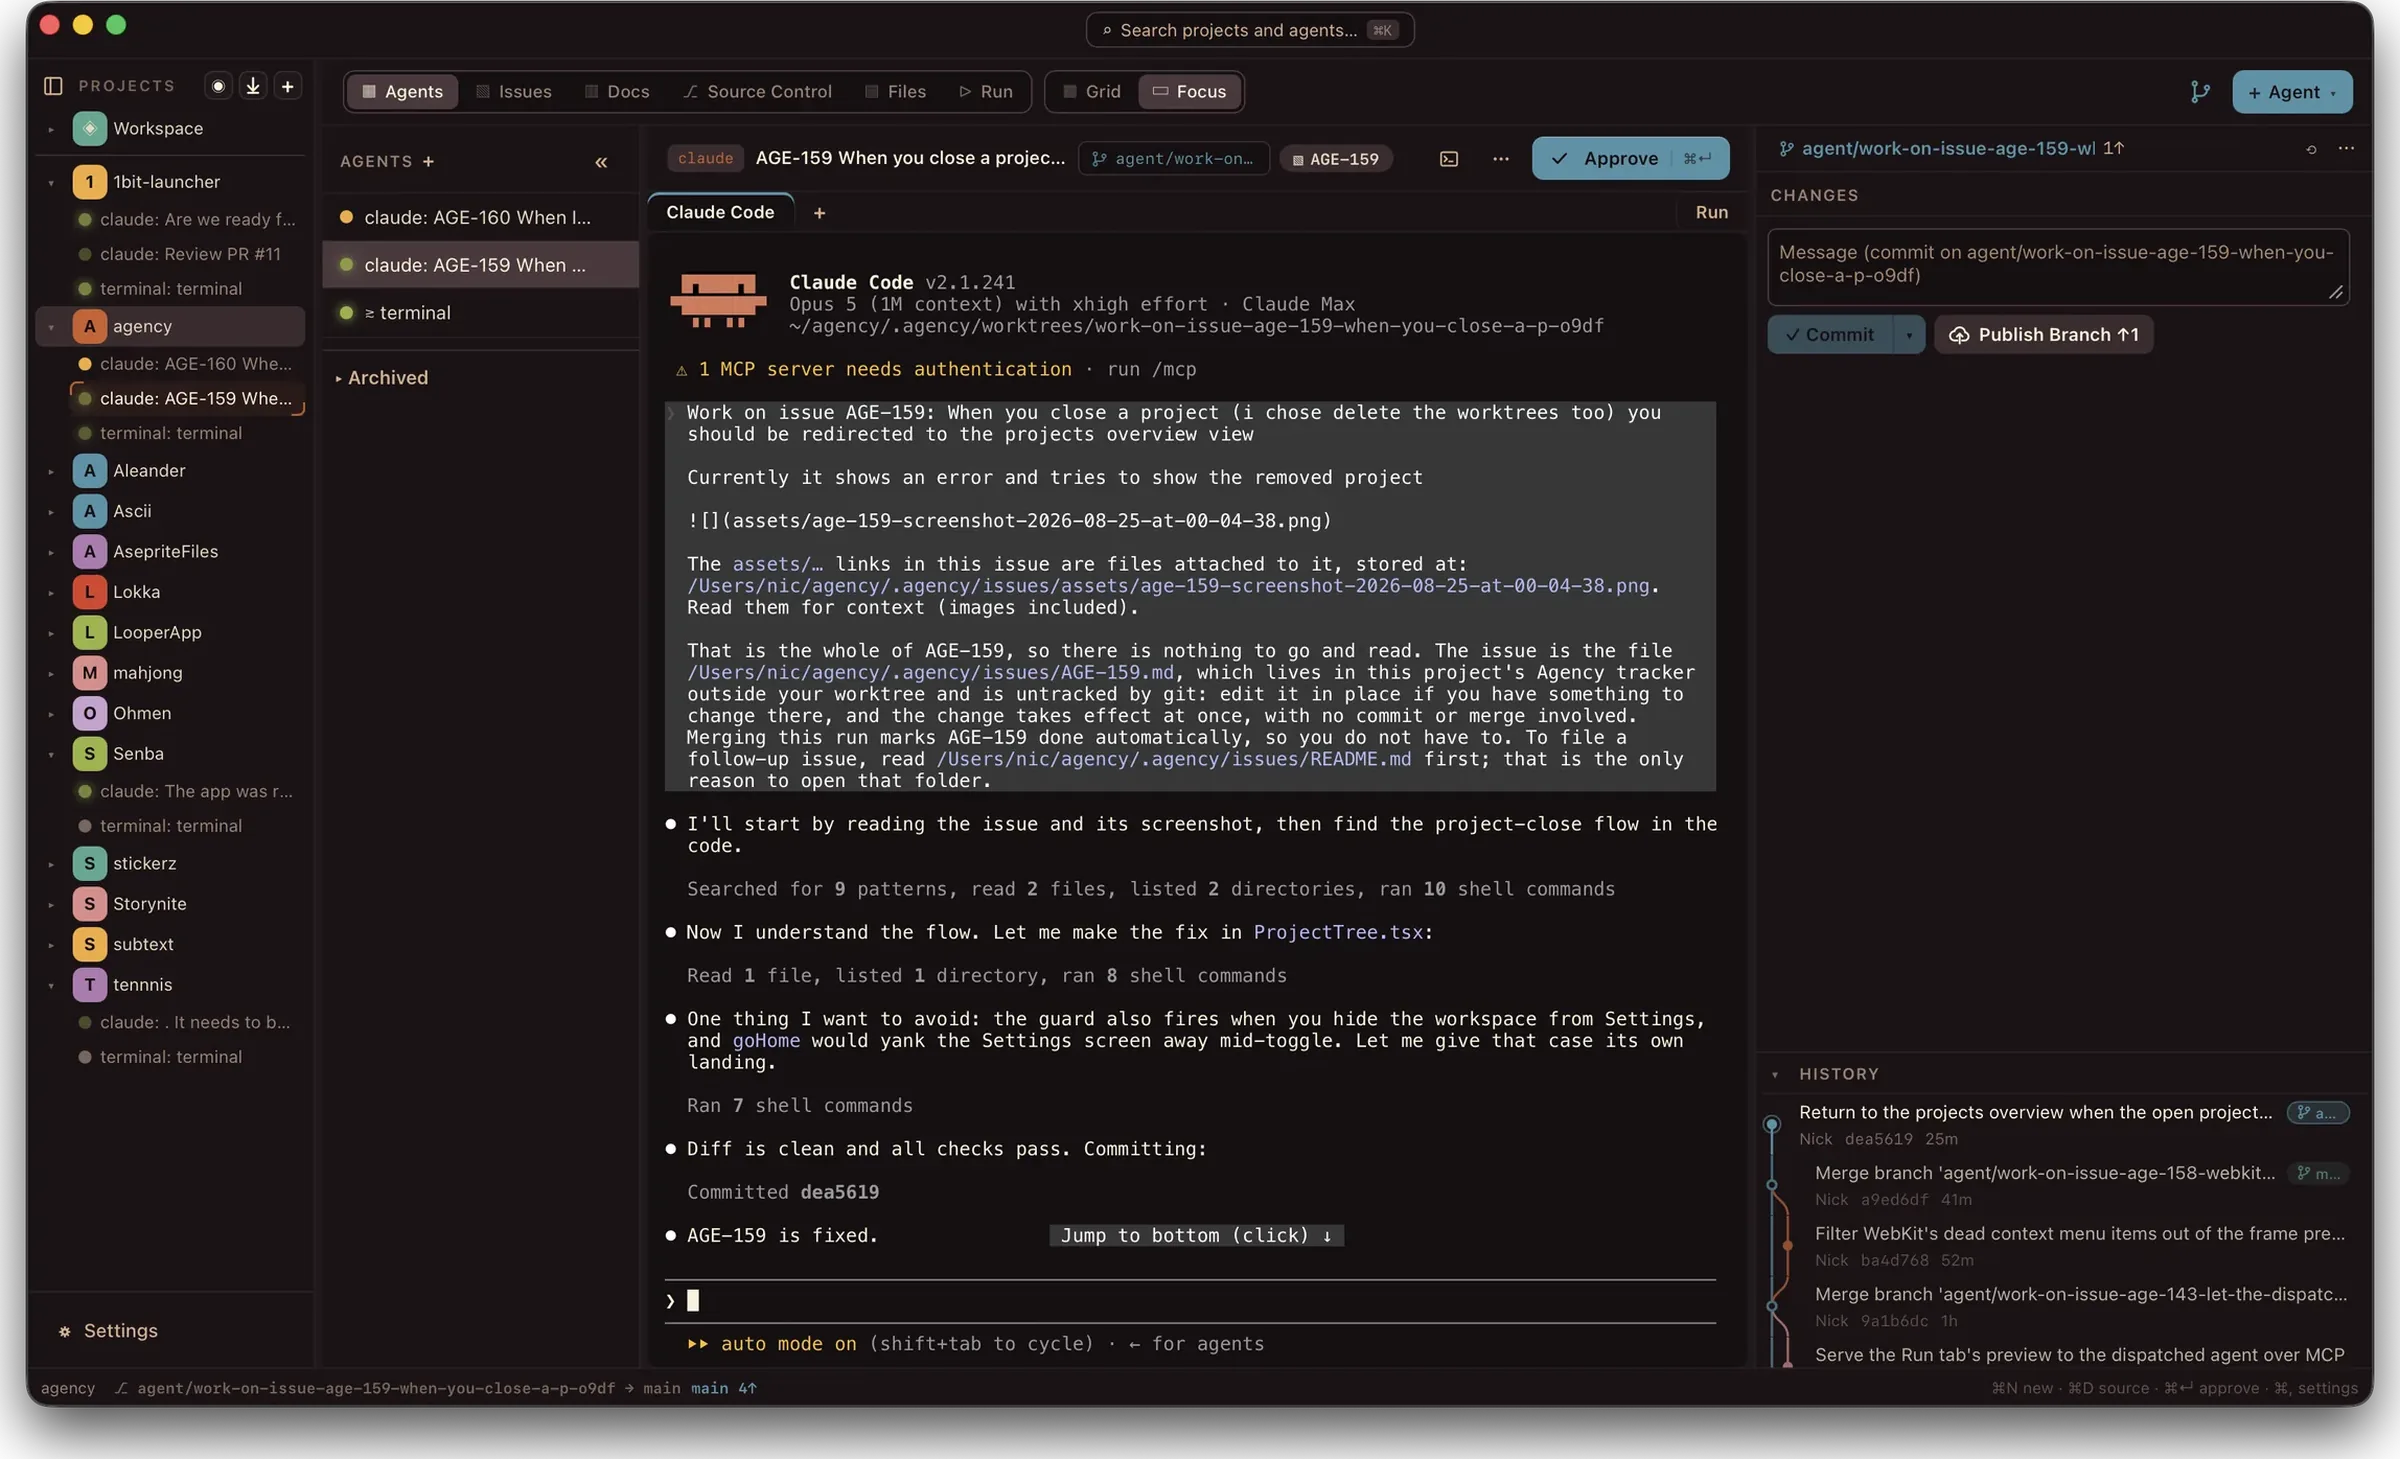
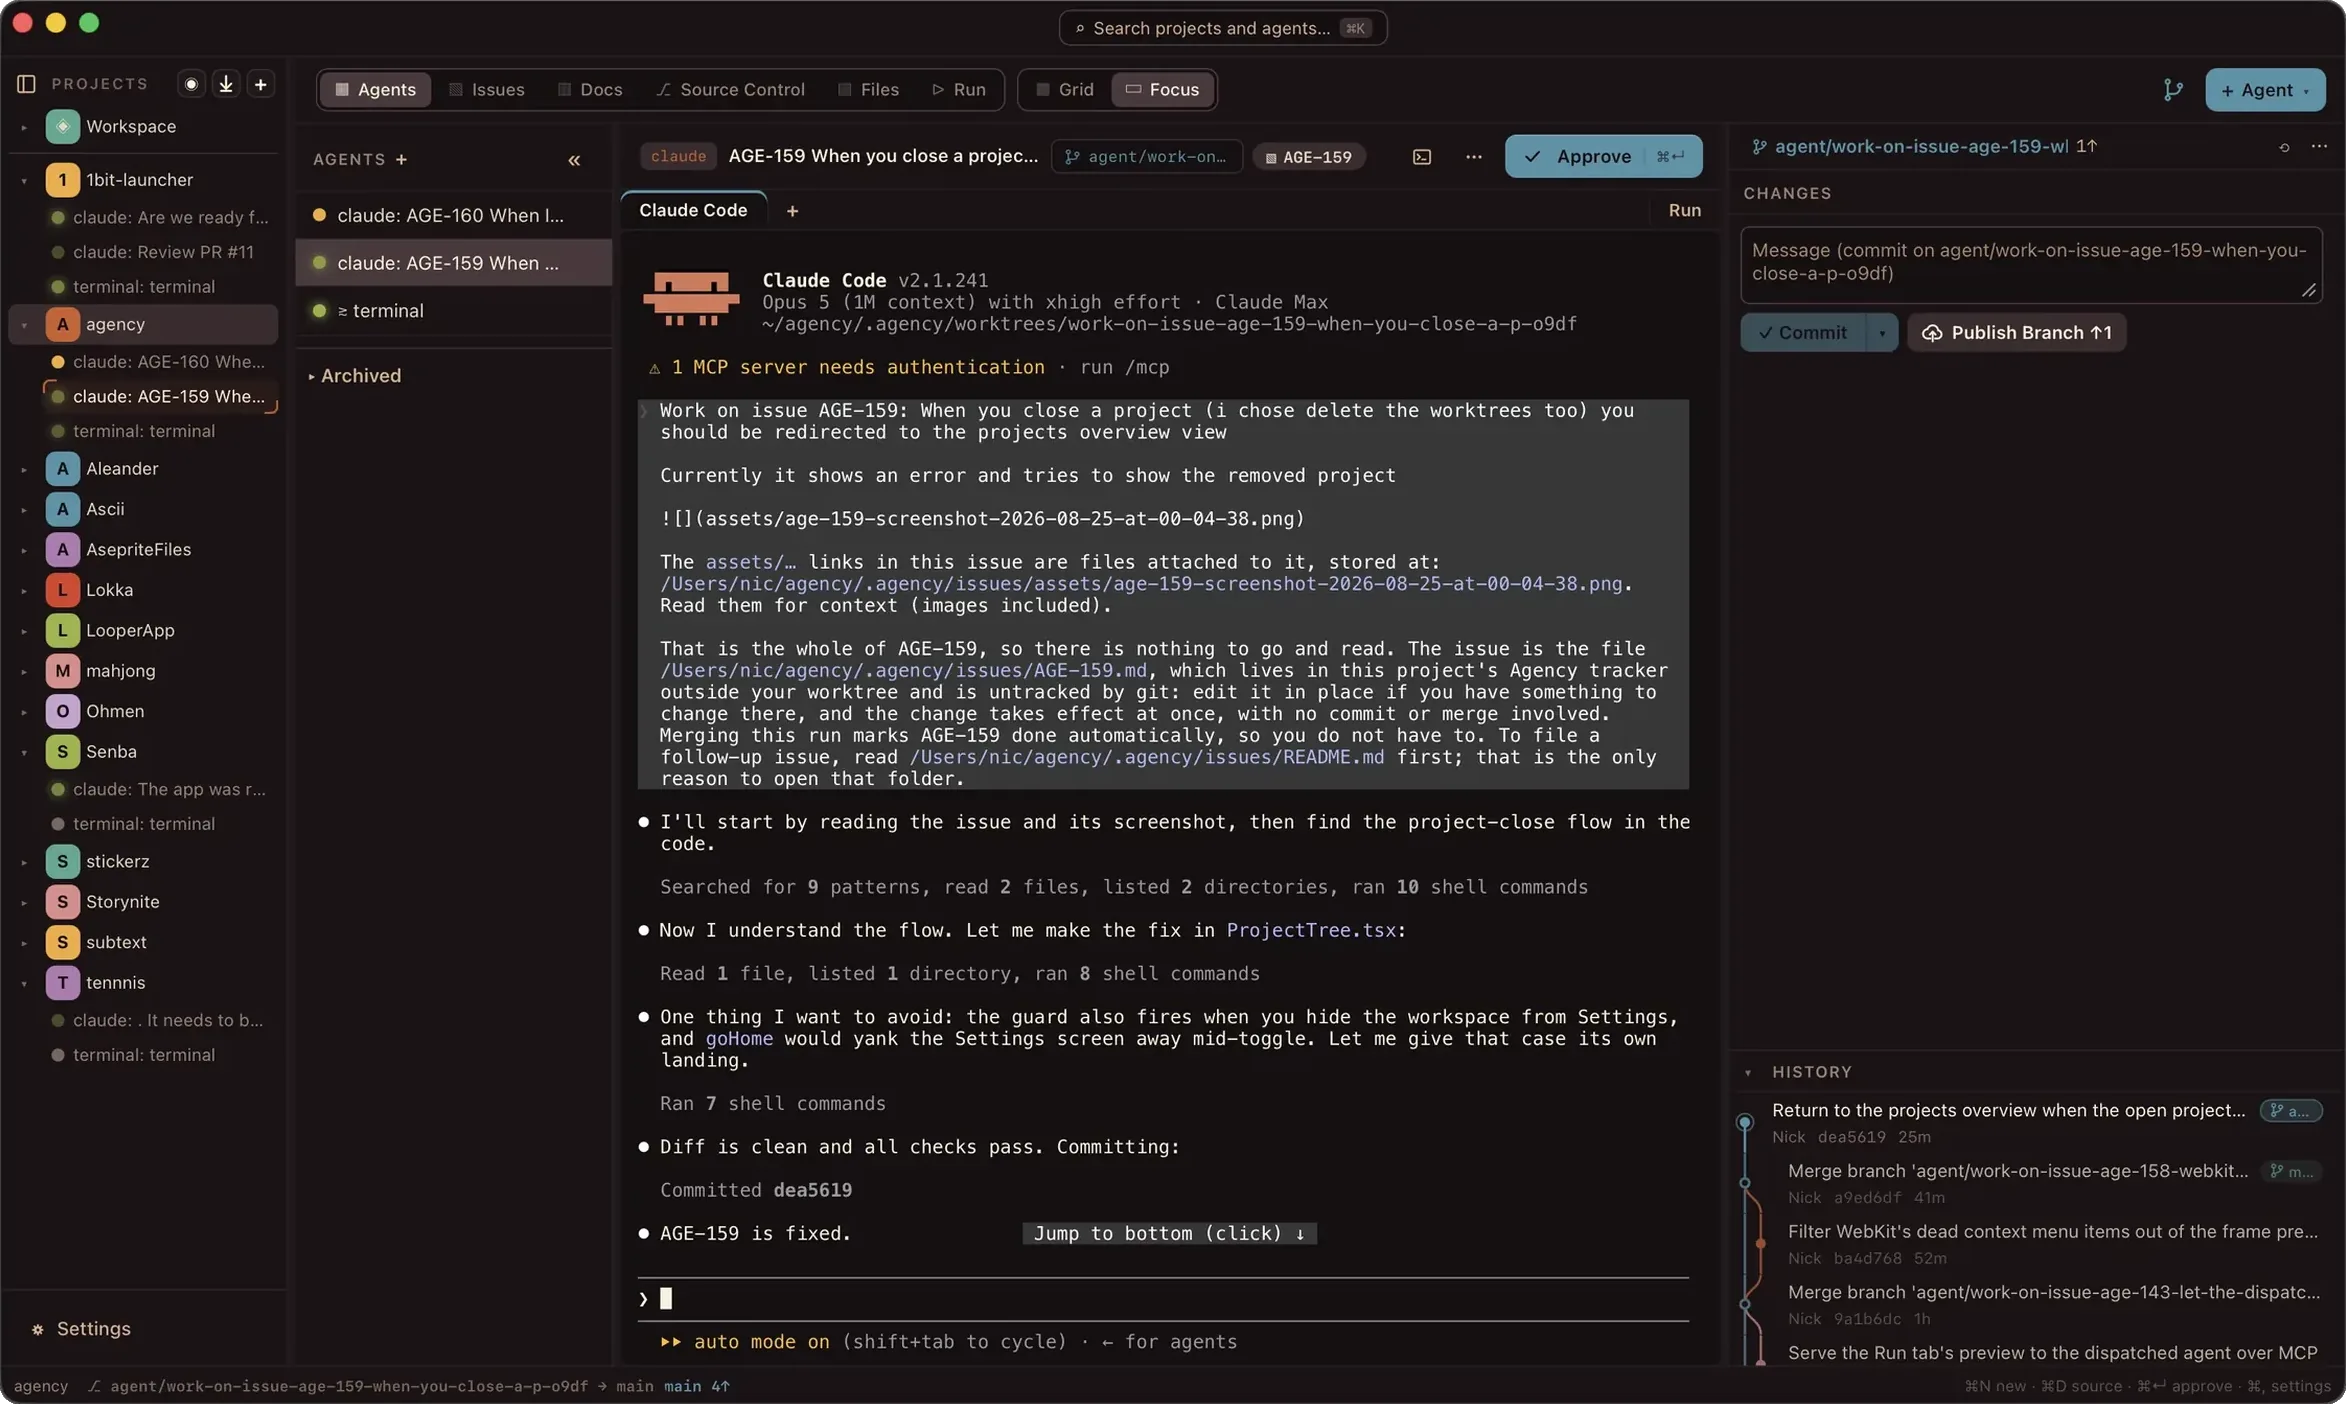
bring the org profile up to date with 0.2.1
Linux ships now (x86_64 and arm64), so say so in the platform line and
leave only Windows as planned. The update check runs every six hours as
well as at launch, and Install now downloads and verifies a release, so
the privacy paragraph no longer claims a single request that installs
nothing. Link the download page and getagency.dev, and sync the focus,
issues and merge screenshots with the site's shadow-cropped versions.

Changed region(s): [[0.0, 0.0, 1.0, 1.0], [0.4356, 0.0, 0.5912, 0.0306]]

diff --git a/profile/README.md b/profile/README.md
@@ -9,9 +9,9 @@
 Agency runs the coding agent CLIs you already use, side by side on your own
 machine. Each one gets a real terminal, its own git worktree, and its own branch.
 
-macOS 11 or later, Apple Silicon &nbsp;&middot;&nbsp; free &nbsp;&middot;&nbsp; no account
+macOS 11 or later, Apple Silicon &nbsp;&middot;&nbsp; Linux, x86_64 and arm64 &nbsp;&middot;&nbsp; free &nbsp;&middot;&nbsp; no account
 
-**[The app](https://github.com/TennnisAI/Agency)** &nbsp;&middot;&nbsp; **[tennnis.no](https://tennnis.no)**
+**[Download](https://getagency.dev/download)** &nbsp;&middot;&nbsp; **[getagency.dev](https://getagency.dev)** &nbsp;&middot;&nbsp; **[Source](https://github.com/TennnisAI/Agency)**
 
 </div>
 
@@ -68,7 +68,7 @@ generated from what actually happened.
 - Put an agent in the side panel of the note you are working on
 - Keep a notes-only workspace with no code in it at all
 
-<img src="https://raw.githubusercontent.com/TennnisAI/.github/main/profile/assets/shot-docs.webp" alt="The Docs tab: a rendered markdown note open in the editor with the notes tree on the left, and the note's properties, outline and backlinks in the side panel on the right.">
+<img src="https://raw.githubusercontent.com/TennnisAI/.github/main/profile/assets/shot-docs.webp" alt="The Docs tab: a rendered markdown design note open in the editor with the notes tree on the left, and the note's properties, outline and backlinks in the panel on the right.">
 
 <br>
 
@@ -107,10 +107,13 @@ it to talk to. Download it, open it, point it at a repo. The coding agents are
 third party and talk to their own providers with your own credentials, and git
 talks to whichever remotes you configured; those connections are yours.
 
-Agency makes exactly one network request of its own: on launch it asks GitHub's
-public API for the latest release tag and compares it to the version you are
-running. It sends no identifiers and installs nothing, and you can turn it off
-in Settings.
+Agency makes one kind of network request of its own, the update check: on
+launch and every six hours while it is open, it asks GitHub's public API for the
+latest release tag and compares it to the version you are running. It sends no
+identifiers and downloads nothing, and you can turn it off in Settings. A
+release is fetched only when you press Install, and it is checked against a
+signing key built into the app before it goes in place.
+[The privacy page](https://getagency.dev/privacy) has the full account.
 
 <br>
 
@@ -125,7 +128,7 @@ Agency cut, reviewed and merged in the app. The commit history is the receipt.
 
 <div align="center">
 
-Pre-1.0 and in beta. Linux and Windows are planned.
+Pre-1.0 and in beta. Windows is planned.
 
 Brought to you by **[Tennnis](https://tennnis.no)**
 
